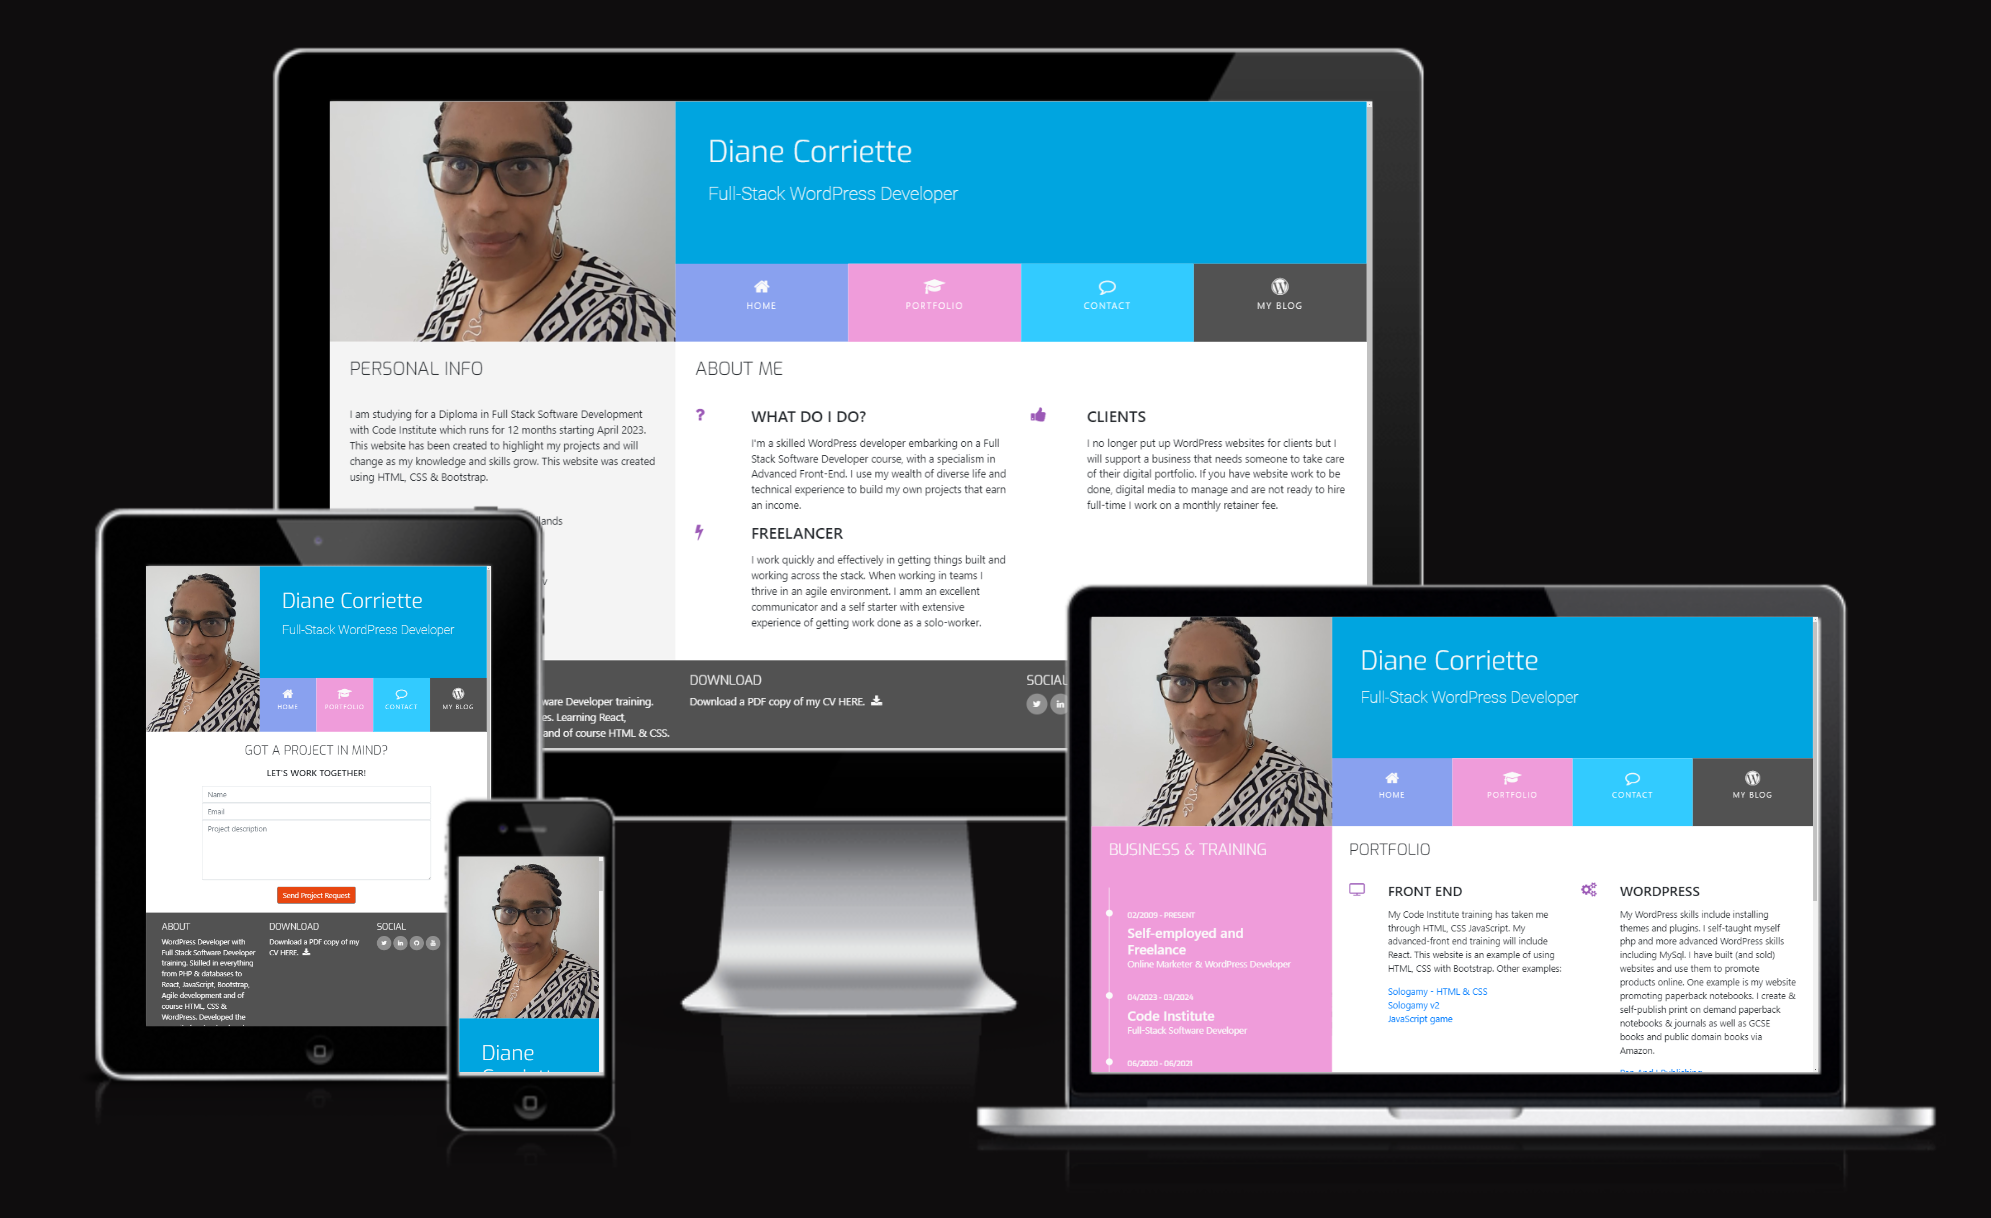
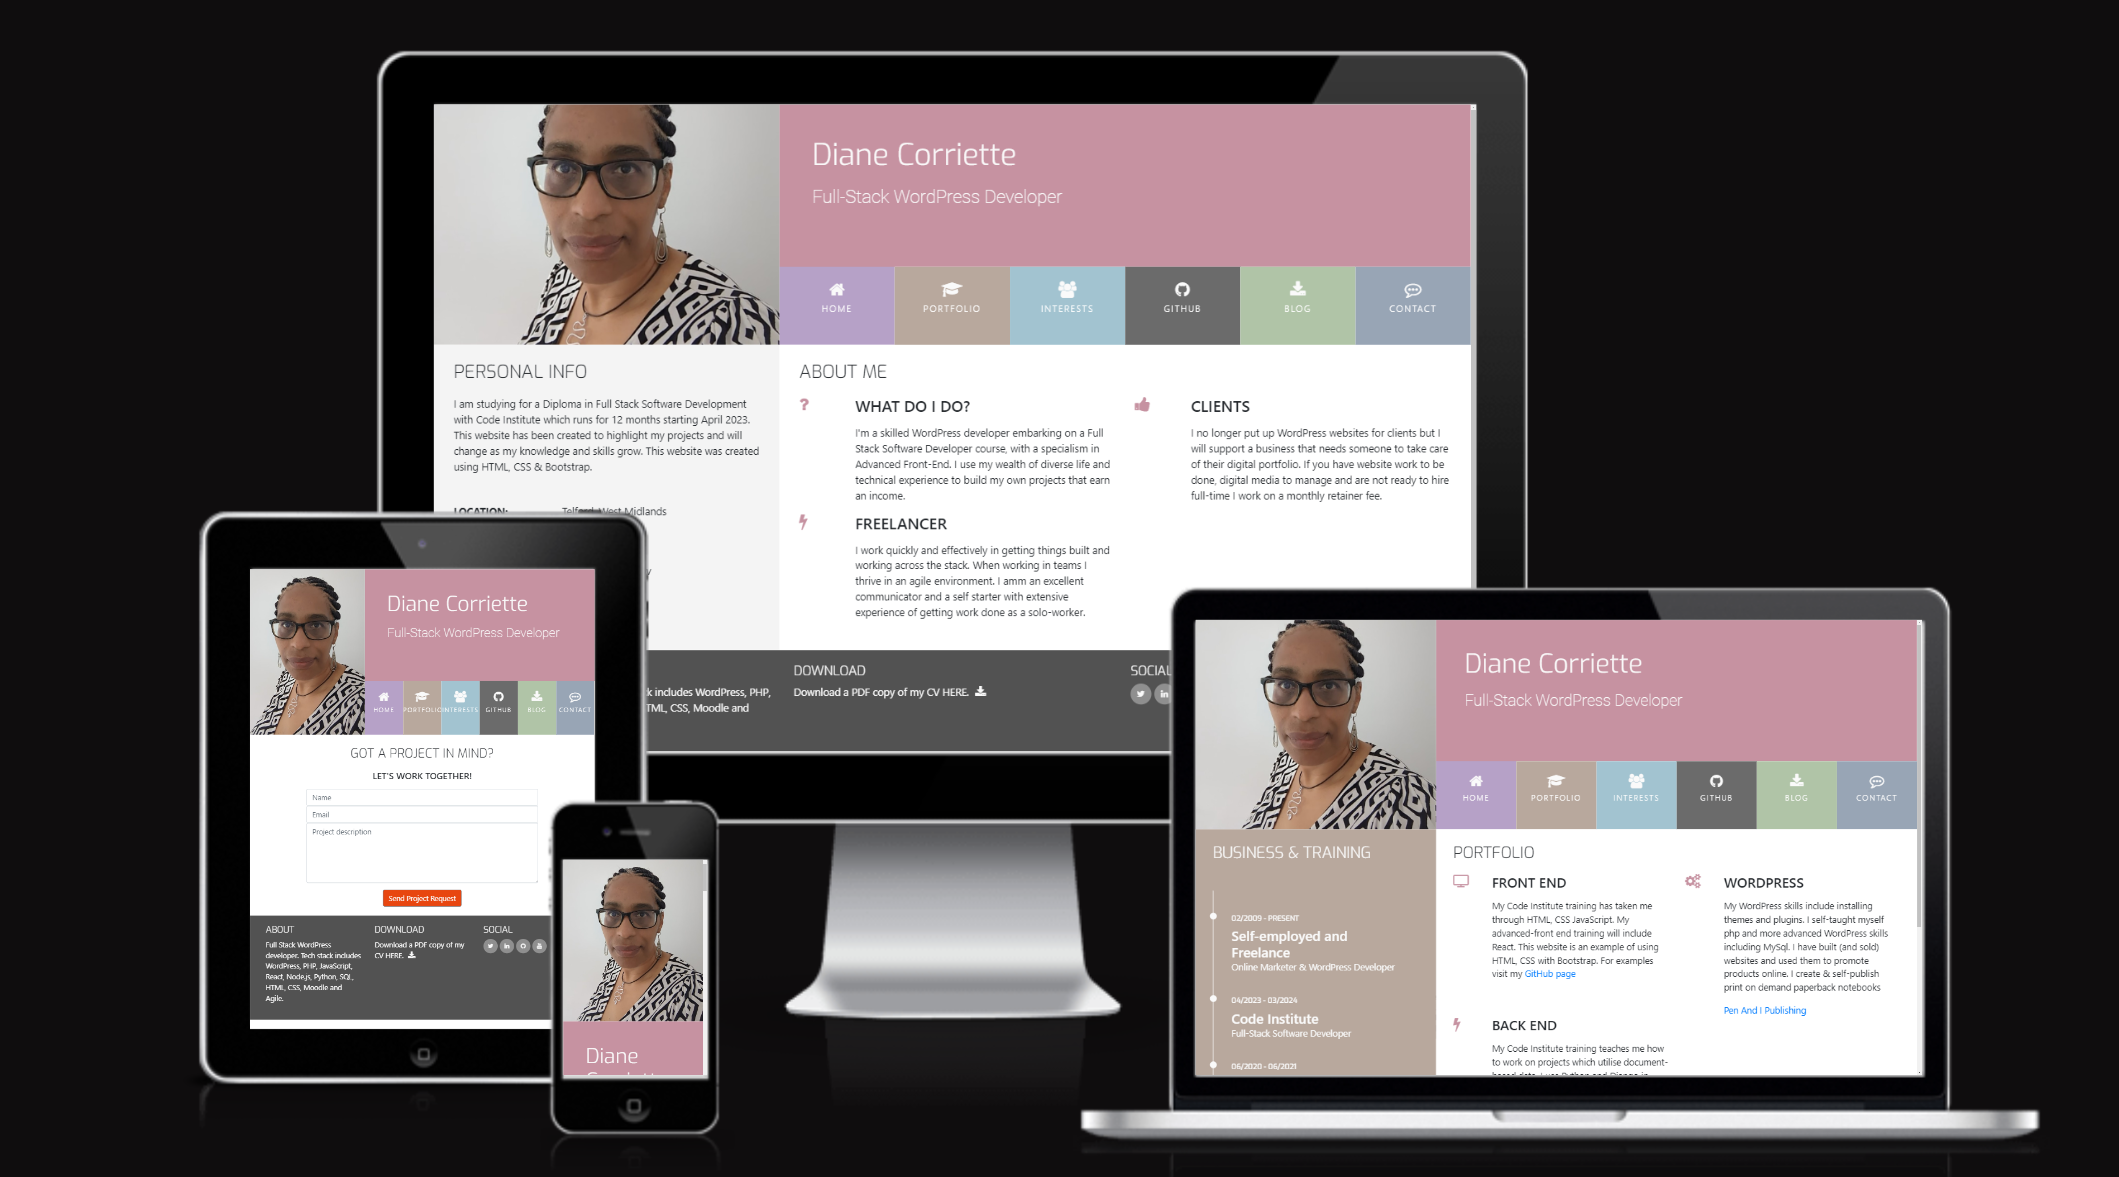
Update README image and page

diff --git a/README.md b/README.md
@@ -6,9 +6,11 @@
 Live deployed project link is [Diane Corriette Portfolio](https://todiane.github.io/ucd-resume/)
 
 
-This is the Code Institute student template for UCD Resume. Created on 21 August 2023.  
+This is the Code Institute student template for UCD Resume. Created on 21 August 2023. Another three pages were added 1 September 2023 - GitHub, interests and a 404 error page.  
 
 The training takes us through how to create a resume website using html, css and Bootstrap 4.6.
+
+In the updates an API was used for the GitHub page.
 
 I updated my website to showcase my own experience and training plus provide links to my portfolio projects and social media.
 
